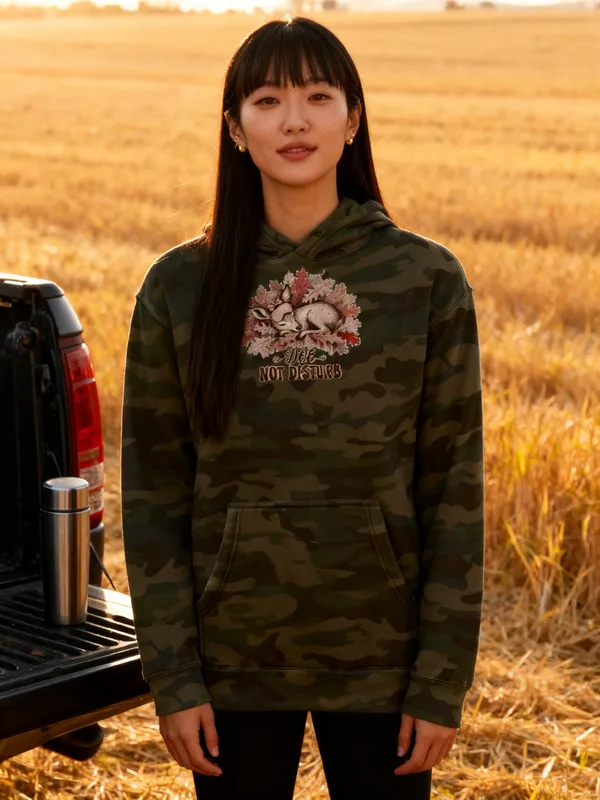
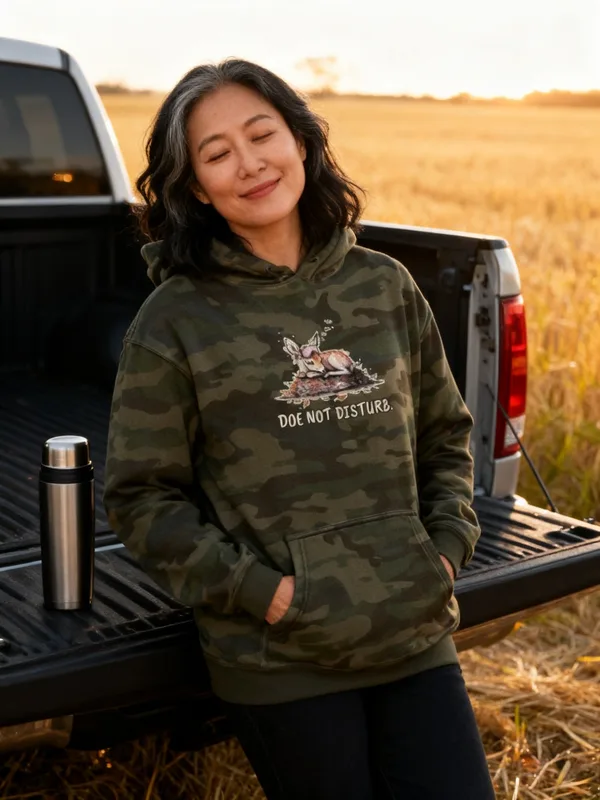
[B] 300 camo redo 5: print, photos, cover

diff --git a/src/data/covers.ts b/src/data/covers.ts
@@ -320,7 +320,7 @@ export const covers: Record<string, { src: string; alt: string }> = {
   'womens-hunting-blending-in-is-overrated-camo-sweatshirt': { src: '/covers/womens-hunting-blending-in-is-overrated-camo-sweatshirt.webp', alt: 'Woman in her mid 20s with long box braids and gold jewelry in an all-over woodland camo Blending In Is Overrated sweatshirt with a big pink bow at a small-town fall festival with hay bales and string lights' },
   'mens-hunting-up-before-the-ducks-camo-sweatshirt': { src: '/covers/mens-hunting-up-before-the-ducks-camo-sweatshirt.webp', alt: 'Man in his early 40s with short black hair and a trimmed goatee in an all-over woodland camo Up Before the Ducks sweatshirt at a misty marsh at sunrise' },
   'womens-hunting-ducks-in-a-row-camo-hoodie': { src: '/covers/womens-hunting-ducks-in-a-row-camo-hoodie.webp', alt: 'Woman in her late 30s with blonde hair in a messy bun and freckles in a Duck Camo Got My Ducks in a Row hoodie at a farm pond edge in October with ducks on the water' },
-  'womens-hunting-doe-not-disturb-camo-hoodie': { src: '/covers/womens-hunting-doe-not-disturb-camo-hoodie.webp', alt: 'Woman in her early 30s with long straight dark hair and curtain bangs in a Forest Camo Doe Not Disturb sleepy doe hoodie at the tailgate of a pickup at the edge of a hayfield at golden hour with a thermos beside her' },
+  'womens-hunting-doe-not-disturb-camo-hoodie': { src: '/covers/womens-hunting-doe-not-disturb-camo-hoodie.webp', alt: 'Woman in her mid 30s with wavy dark hair and a few grey strands in a Forest Camo Doe Not Disturb sleepy doe hoodie, eyes closed, leaning on a pickup tailgate at a hayfield at golden hour with a thermos beside her' },
   'mens-hunting-i-saw-you-move-squirrel-camo-hoodie': { src: '/covers/mens-hunting-i-saw-you-move-squirrel-camo-hoodie.webp', alt: 'Man in his mid 30s with a red-brown full beard and a blaze orange knit beanie in a Forest Camo I Saw You Move squirrel hoodie at the foot of a ladder tree stand in frosty hardwoods at first light' },
   'mens-hunting-antler-envy-buck-camo-hoodie': { src: '/covers/mens-hunting-antler-envy-buck-camo-hoodie.webp', alt: 'Man in his late 40s with long black hair tied back in a Darkwood Tree Camo Antler Envy buck hoodie on a dirt two-track through autumn woods beside a pickup with the tailgate down' },
   'unisex-possum-playing-dead-camo-hoodie': { src: '/covers/unisex-possum-playing-dead-camo-hoodie.webp', alt: 'Man and woman in matching Forest Camo Playing Dead Till Friday possum hoodies standing by a leafy college-town park bench in October with coffee cups beside them' },

diff --git a/docs/model-registry.md b/docs/model-registry.md
@@ -941,3 +941,4 @@ Rows 11–43 were re-pointed on 2026-10-08 when the briefs were rewritten from d
 | 1146 | Lumbee man, mid 30s, short dark hair, trimmed beard, broad build | USED 2026-10-23 — #830 camo redo cover + second photo |
 | 1147 | Hispanic man, early 40s, short salt-and-pepper hair, clean-shaven, stocky build | USED 2026-10-24 — #292 camo redo cover + second photo |
 | 1148 | Black man, early 30s, short fade, light beard, athletic build | USED 2026-10-24 — #289 camo redo cover (seedream call 1 of the photos-only REDO)
+| 1149 | Chinese-American woman, mid 30s, shoulder-length wavy black hair with a few grey strands, no hat, medium build | USED 2026-10-24 — #300 camo redo cover + second photo |
